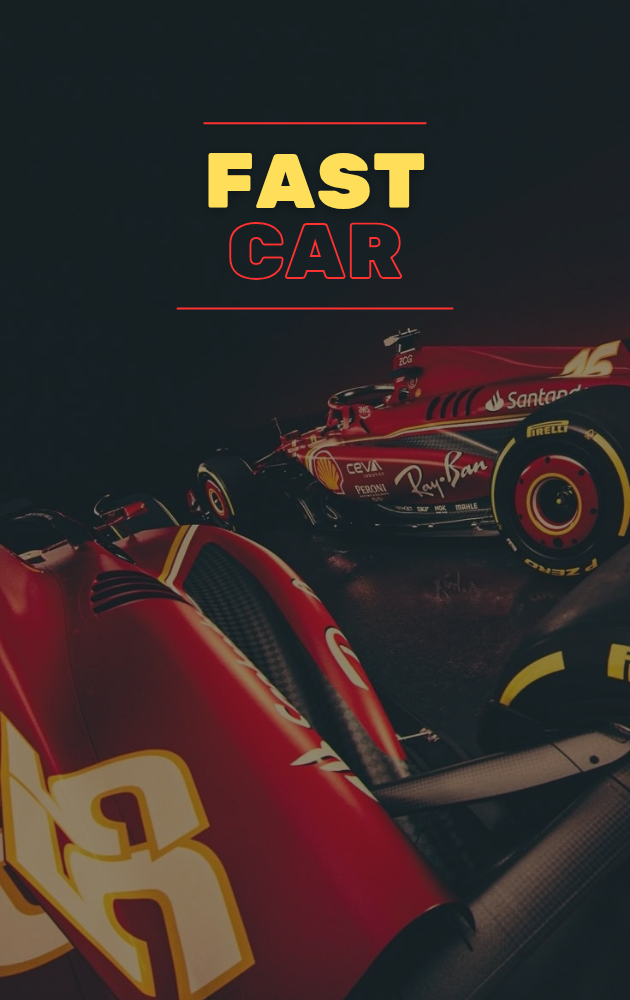
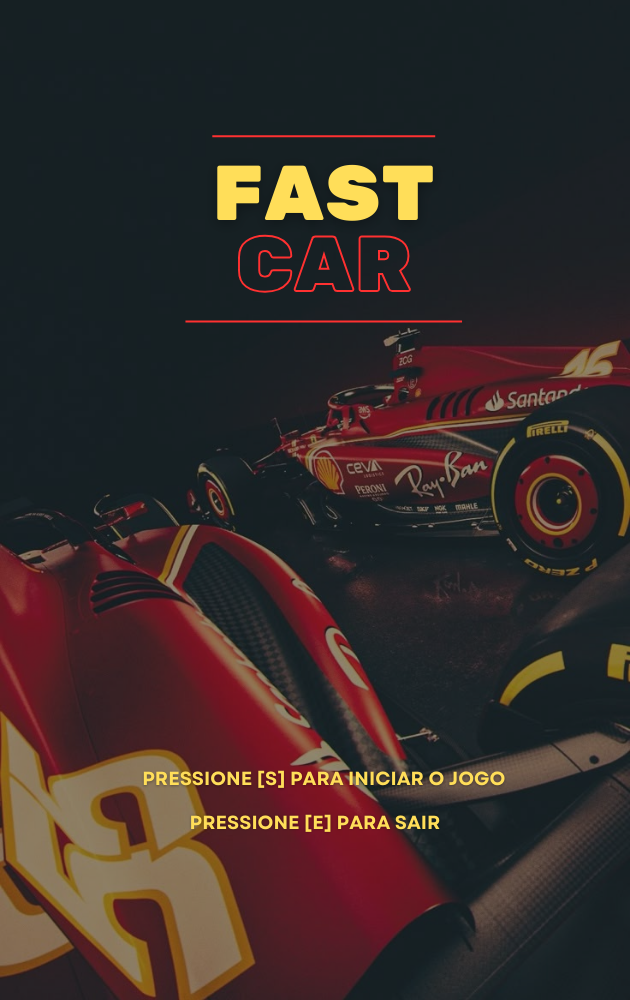
ajuste-tela

Changed region(s): [[0.3317, 0.124, 0.6937, 0.31], [0.2413, 0.775, 0.7841, 0.837]]

diff --git a/fastCar.py b/fastCar.py
@@ -40,10 +40,6 @@ timer = 0
 sec = 0
 
 status = "menu"
-fontMenu = pygame.font.SysFont('None', 30)
-textoMenu = fontMenu.render("Pressione [S] para iniciar", True, (255, 255, 255,))
-menu_pos = textoMenu.get_rect()
-menu_pos.center = (300, 500)
 
 fontJogarNovamente = pygame.font.SysFont('Arial black', 20)
 textoJogarNovamente = fontJogarNovamente.render("Pressione [A] para jogar novamente", True, (255, 255, 255,))
@@ -103,8 +99,6 @@ while tela_aberta:
     if status == "menu":
         tela.fill((0, 0, 0))
         tela.blit(backgroundMenu, (0, 0))
-        tela.blit(textoMenu, menu_pos)
-        tela.blit(textoExit, exit_pos)
         pygame.display.update()
 
         if teclas[pygame.K_s]:
